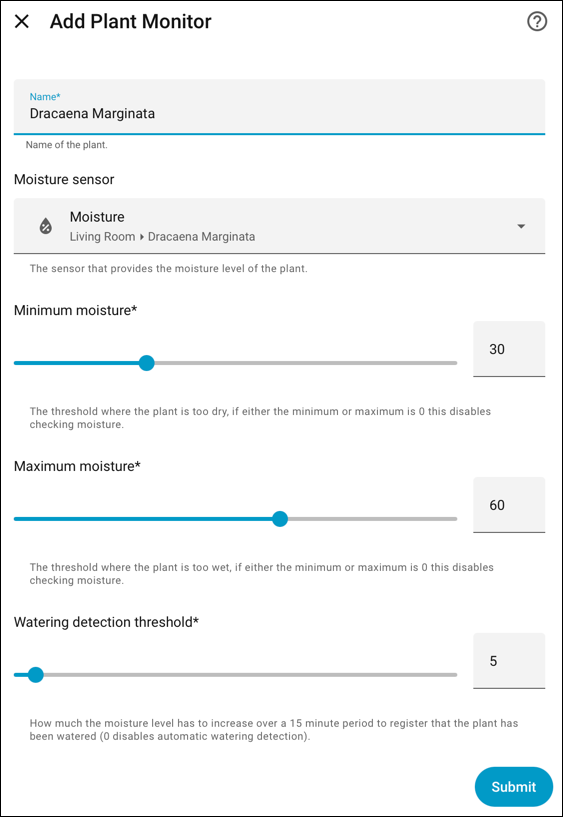
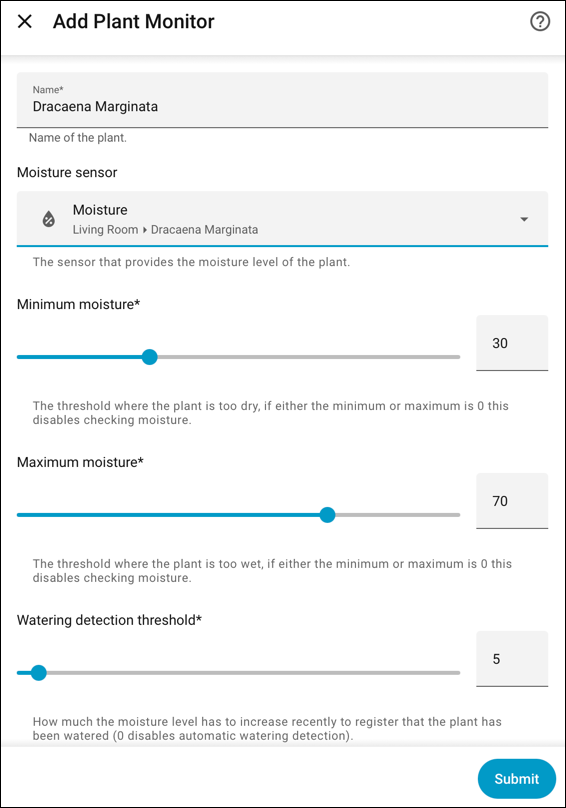
Update defaults

diff --git a/custom_components/plant_monitor_plus/config_flow.py b/custom_components/plant_monitor_plus/config_flow.py
@@ -22,6 +22,8 @@ from .const import (
     CONF_MOISTURE_MAX,
     CONF_MOISTURE_MIN,
     CONF_WATERING_DETECTION_THRESHOLD,
+    DEFAULT_MOISTURE_MAX,
+    DEFAULT_MOISTURE_MIN,
     DEFAULT_WATERING_DETECTION_THRESHOLD,
     DOMAIN,
 )
@@ -35,12 +37,16 @@ THRESHOLD_KEYS = (
 )
 
 THRESHOLD_SCHEMA = {
-    vol.Required(CONF_MOISTURE_MIN, default=0): selector.NumberSelector(
+    vol.Required(
+        CONF_MOISTURE_MIN, default=DEFAULT_MOISTURE_MIN
+    ): selector.NumberSelector(
         selector.NumberSelectorConfig(
             min=0, max=100, mode=selector.NumberSelectorMode.SLIDER
         )
     ),
-    vol.Required(CONF_MOISTURE_MAX, default=0): selector.NumberSelector(
+    vol.Required(
+        CONF_MOISTURE_MAX, default=DEFAULT_MOISTURE_MAX
+    ): selector.NumberSelector(
         selector.NumberSelectorConfig(
             min=0, max=100, mode=selector.NumberSelectorMode.SLIDER
         )
@@ -89,22 +95,18 @@ class PlantMonitorPlusFlowHandler(ConfigFlow, domain=DOMAIN):
 
     def _user_schema(self) -> vol.Schema:
         """Build user step schema."""
-        return vol.Schema(
-            {
-                vol.Required(CONF_NAME): str,
-                **self._entity_selector(),
-                **THRESHOLD_SCHEMA,
-            }
-        )
+        return vol.Schema({
+            vol.Required(CONF_NAME): str,
+            **self._entity_selector(),
+            **THRESHOLD_SCHEMA,
+        })
 
     def _reconfigure_schema(self, current_entry_id: str) -> vol.Schema:
         """Build reconfigure step schema."""
-        return vol.Schema(
-            {
-                vol.Required(CONF_NAME): str,
-                **self._entity_selector(current_entry_id),
-            }
-        )
+        return vol.Schema({
+            vol.Required(CONF_NAME): str,
+            **self._entity_selector(current_entry_id),
+        })
 
     @staticmethod
     @callback

diff --git a/custom_components/plant_monitor_plus/const.py b/custom_components/plant_monitor_plus/const.py
@@ -13,8 +13,10 @@ CONF_MOISTURE_ENTITY_ID = "moisture_entity_id"
 CONF_MOISTURE_MAX = "moisture_max"
 CONF_MOISTURE_MIN = "moisture_min"
 CONF_WATERING_DETECTION_THRESHOLD = "watering_detection_threshold"
+DEFAULT_MOISTURE_MIN = 30
+DEFAULT_MOISTURE_MAX = 70
 DEFAULT_WATERING_DETECTION_THRESHOLD = 5
-WATERING_DETECTION_WINDOW_MINUTES = 15
+WATERING_DETECTION_WINDOW_MINUTES = 60
 
 SERVICE_GET_PLANT_SUMMARY = "get_plant_summary"
 SERVICE_SET_PLANT_WATERED = "set_plant_watered"
